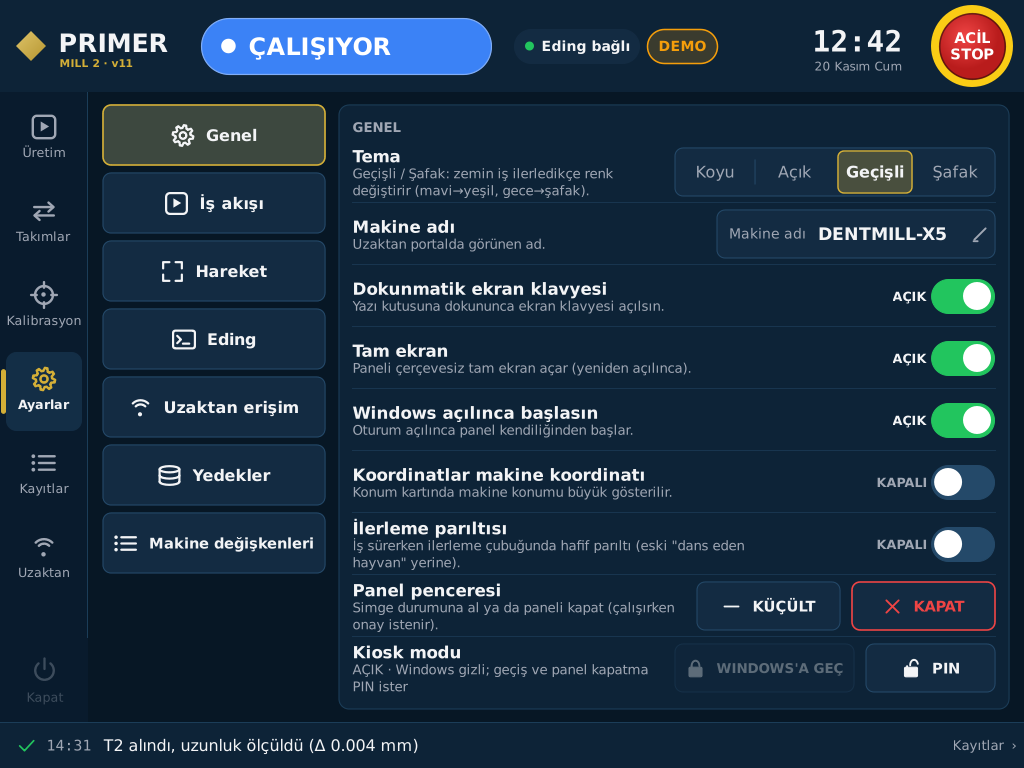
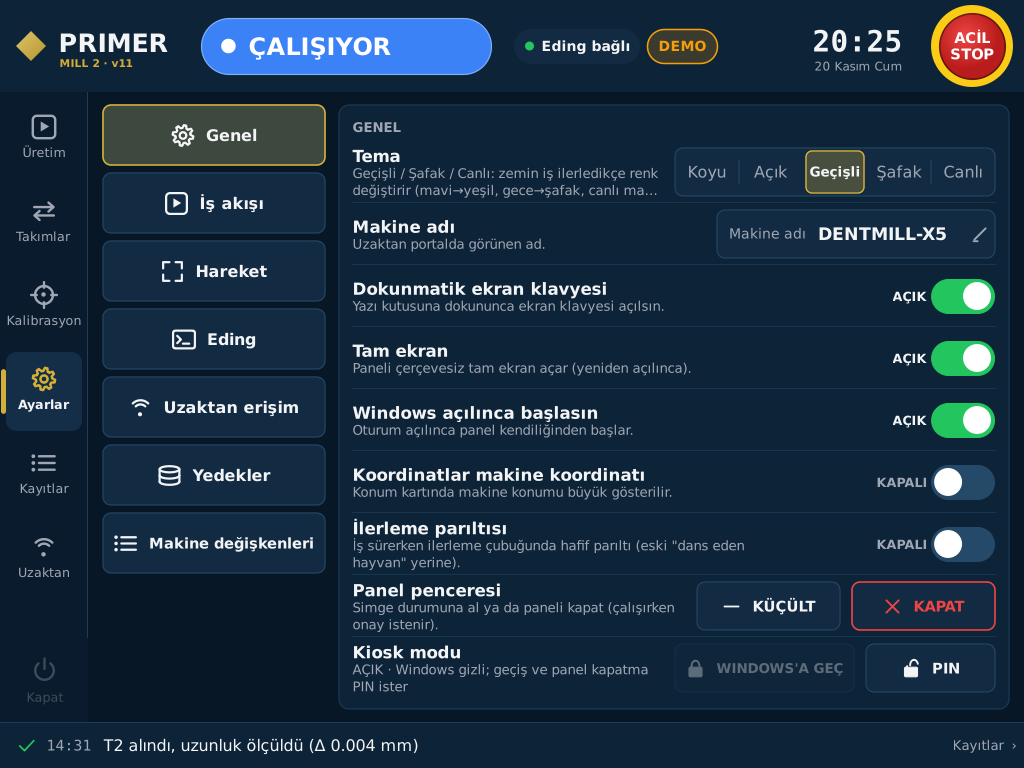
Yeni ilerleme temasi: Canli (belirgin maviden yesile)
Gecisli ile ayni motor; uclar doygun renkler (yazi kontrasti >= 7:1).
Ayarlar > Genel > Tema 5 secenek; Tema=canli. Testler ve ekran goruntuleri
85-89. Paket v14.

Claude-Session: https://claude.ai/code/session_01AzwqC4ZEM5pcPdzvYXdH7g

Changed region(s): [[0.3438, 0.1875, 0.7188, 0.25], [0.75, 0.1875, 0.9688, 0.25], [0.7812, 0.0312, 0.875, 0.0625]]

diff --git a/PrimerMill_Kod_Inceleme/teslim/PrimerMill/ui/PrimerUI.cs b/PrimerMill_Kod_Inceleme/teslim/PrimerMill/ui/PrimerUI.cs
@@ -92,7 +92,7 @@ namespace PrimerUI
 
     /// <summary>Tema modu: Koyu, Açık ve iki ilerleme teması (koyu taban; yüzeyler işin ilerlemesine göre kayar):
     /// Geçişli (maviden yeşile), Şafak (gece çivitinden şafak bakırına).</summary>
-    public enum TemaModu { Koyu, Acik, Gecisli, Safak }
+    public enum TemaModu { Koyu, Acik, Gecisli, Safak, Canli }
 
     /// <summary>İlerleme teması: yüzey belirteçlerinin iki uç paleti (t = 0 ve t = 1) ve ara renk yolu.
     /// Sıra: Zemin, Kart, KartKenar, Dugme, DugmeKenar, Menu, Ayrac, Secili, Golge.</summary>
@@ -113,7 +113,7 @@ namespace PrimerUI
         public static TemaModu Mod = TemaModu.Koyu;
         /// <summary>İlerleme teması mı (Geçişli, Şafak): yüzeyler GecisT'ye göre hesaplanır, Kabuk yumuşak geçiş zamanlayıcısını çalıştırır.</summary>
         public static bool Ilerlemeli { get { return IlerlemeliMi(Mod); } }
-        public static bool IlerlemeliMi(TemaModu m) { return m == TemaModu.Gecisli || m == TemaModu.Safak; }
+        public static bool IlerlemeliMi(TemaModu m) { return m == TemaModu.Gecisli || m == TemaModu.Safak || m == TemaModu.Canli; }
         /// <summary>İlerleme temasında o an çizilen konum (0 = iş yok / başında, 1 = iş bitti).</summary>
         public static float GecisT;
         /// <summary>Yerleşim katsayısı (1024×768 = 1.0, 1920×1080 ≈ 1.4).</summary>
@@ -151,6 +151,7 @@ namespace PrimerUI
             if (v == "acik" || v == "açık") return TemaModu.Acik;
             if (v == "gecisli" || v == "geçişli") return TemaModu.Gecisli;
             if (v == "safak" || v == "şafak") return TemaModu.Safak;
+            if (v == "canli" || v == "canlı") return TemaModu.Canli;
             return TemaModu.Koyu;
         }
         /// <summary>Mod → ayar değeri ("koyu", "acik", "gecisli", "safak").</summary>
@@ -161,6 +162,7 @@ namespace PrimerUI
                 case TemaModu.Acik: return "acik";
                 case TemaModu.Gecisli: return "gecisli";
                 case TemaModu.Safak: return "safak";
+                case TemaModu.Canli: return "canli";
                 default: return "koyu";
             }
         }
@@ -177,8 +179,14 @@ namespace PrimerUI
             new[] { "#0E0B26", "#18133B", "#2C2563", "#211B4A", "#362E72", "#120E2F", "#272056", "#221C4D", "#06041A" },
             new[] { "#1B1007", "#2A1A0D", "#57381C", "#352112", "#64421F", "#22150A", "#4A2F17", "#3A2513", "#0D0703" }, true);
 
+        /// <summary>Canlı: Geçişli gibi maviden yeşile, ama doygun ve belirgin renklerle (kullanıcı isteği: geçiş daha belirgin).
+        /// Yazı/kart kontrastı ≥ 7:1 (Koyu kadar yüksek değil, okunaklı); OKLab'da doğrusal (mavi → camgöbeği → yeşil).</summary>
+        public static readonly IlerlemePaleti CanliPalet = new IlerlemePaleti("Canlı",
+            new[] { "#0A2563", "#12357A", "#2C56B0", "#1A428F", "#3864BE", "#0C2C6E", "#2650A0", "#1F4A96", "#03102C" },
+            new[] { "#08401F", "#0F5A2D", "#2A8F50", "#16693A", "#349E5E", "#0B4A25", "#25834A", "#1D7542", "#02200E" }, false);
+
         /// <summary>Etkin modun ilerleme paleti (ilerleme teması değilse null).</summary>
-        public static IlerlemePaleti EtkinPalet { get { return Mod == TemaModu.Safak ? SafakPalet : Mod == TemaModu.Gecisli ? GecisliPalet : null; } }
+        public static IlerlemePaleti EtkinPalet { get { return Mod == TemaModu.Canli ? CanliPalet : Mod == TemaModu.Safak ? SafakPalet : Mod == TemaModu.Gecisli ? GecisliPalet : null; } }
 
         /// <summary>İlerleme temasında yüzey belirteçlerini t'ye (0..1) göre etkin paletin iki ucu arasından hesaplar (ara renklerin hepsi).
         /// Olay (Degisti) tetiklemez; çağıran yeniden boyar. Dönüş: 8 bitlik renklerden biri değişti mi (değişmediyse boyamaya gerek yok).</summary>
@@ -3834,10 +3842,10 @@ namespace PrimerUI
 
             // Genel
             var g = Sayfa(0);
-            tema = new SecimGrubu(new[] { "Koyu", "Açık", "Geçişli", "Şafak" }, new[] { "koyu", "acik", "gecisli", "safak" }, "ayar.kaydet", "Tema");
+            tema = new SecimGrubu(new[] { "Koyu", "Açık", "Geçişli", "Şafak", "Canlı" }, new[] { "koyu", "acik", "gecisli", "safak", "canli" }, "ayar.kaydet", "Tema");
             tema.Secili = 0;
             tema.SecimDegisti += delegate { var h = TemaIstendi; if (h != null) h(tema.SeciliDeger); };
-            g.Ekle(new AyarSatiri("Tema", "Geçişli / Şafak: zemin iş ilerledikçe renk değiştirir (mavi→yeşil, gece→şafak).", tema, 420), 62);
+            g.Ekle(new AyarSatiri("Tema", "Geçişli / Şafak / Canlı: zemin iş ilerledikçe renk değiştirir (mavi→yeşil, gece→şafak, canlı mavi→yeşil).", tema, 420), 62);
             var ad = new DegerKutusu { Metinsel = true, AyarAdi = "MakineAdi", EnCokKarakter = 30, Pt = 13f, Etiket = "Makine adı" };
             degerler["MakineAdi"] = ad;
             g.Ekle(new AyarSatiri("Makine adı", "Uzaktan portalda görünen ad.", ad, 280), 62);

diff --git a/PrimerMill_Kod_Inceleme/ui/PrimerUI.cs b/PrimerMill_Kod_Inceleme/ui/PrimerUI.cs
@@ -92,7 +92,7 @@ namespace PrimerUI
 
     /// <summary>Tema modu: Koyu, Açık ve iki ilerleme teması (koyu taban; yüzeyler işin ilerlemesine göre kayar):
     /// Geçişli (maviden yeşile), Şafak (gece çivitinden şafak bakırına).</summary>
-    public enum TemaModu { Koyu, Acik, Gecisli, Safak }
+    public enum TemaModu { Koyu, Acik, Gecisli, Safak, Canli }
 
     /// <summary>İlerleme teması: yüzey belirteçlerinin iki uç paleti (t = 0 ve t = 1) ve ara renk yolu.
     /// Sıra: Zemin, Kart, KartKenar, Dugme, DugmeKenar, Menu, Ayrac, Secili, Golge.</summary>
@@ -113,7 +113,7 @@ namespace PrimerUI
         public static TemaModu Mod = TemaModu.Koyu;
         /// <summary>İlerleme teması mı (Geçişli, Şafak): yüzeyler GecisT'ye göre hesaplanır, Kabuk yumuşak geçiş zamanlayıcısını çalıştırır.</summary>
         public static bool Ilerlemeli { get { return IlerlemeliMi(Mod); } }
-        public static bool IlerlemeliMi(TemaModu m) { return m == TemaModu.Gecisli || m == TemaModu.Safak; }
+        public static bool IlerlemeliMi(TemaModu m) { return m == TemaModu.Gecisli || m == TemaModu.Safak || m == TemaModu.Canli; }
         /// <summary>İlerleme temasında o an çizilen konum (0 = iş yok / başında, 1 = iş bitti).</summary>
         public static float GecisT;
         /// <summary>Yerleşim katsayısı (1024×768 = 1.0, 1920×1080 ≈ 1.4).</summary>
@@ -151,6 +151,7 @@ namespace PrimerUI
             if (v == "acik" || v == "açık") return TemaModu.Acik;
             if (v == "gecisli" || v == "geçişli") return TemaModu.Gecisli;
             if (v == "safak" || v == "şafak") return TemaModu.Safak;
+            if (v == "canli" || v == "canlı") return TemaModu.Canli;
             return TemaModu.Koyu;
         }
         /// <summary>Mod → ayar değeri ("koyu", "acik", "gecisli", "safak").</summary>
@@ -161,6 +162,7 @@ namespace PrimerUI
                 case TemaModu.Acik: return "acik";
                 case TemaModu.Gecisli: return "gecisli";
                 case TemaModu.Safak: return "safak";
+                case TemaModu.Canli: return "canli";
                 default: return "koyu";
             }
         }
@@ -177,8 +179,14 @@ namespace PrimerUI
             new[] { "#0E0B26", "#18133B", "#2C2563", "#211B4A", "#362E72", "#120E2F", "#272056", "#221C4D", "#06041A" },
             new[] { "#1B1007", "#2A1A0D", "#57381C", "#352112", "#64421F", "#22150A", "#4A2F17", "#3A2513", "#0D0703" }, true);
 
+        /// <summary>Canlı: Geçişli gibi maviden yeşile, ama doygun ve belirgin renklerle (kullanıcı isteği: geçiş daha belirgin).
+        /// Yazı/kart kontrastı ≥ 7:1 (Koyu kadar yüksek değil, okunaklı); OKLab'da doğrusal (mavi → camgöbeği → yeşil).</summary>
+        public static readonly IlerlemePaleti CanliPalet = new IlerlemePaleti("Canlı",
+            new[] { "#0A2563", "#12357A", "#2C56B0", "#1A428F", "#3864BE", "#0C2C6E", "#2650A0", "#1F4A96", "#03102C" },
+            new[] { "#08401F", "#0F5A2D", "#2A8F50", "#16693A", "#349E5E", "#0B4A25", "#25834A", "#1D7542", "#02200E" }, false);
+
         /// <summary>Etkin modun ilerleme paleti (ilerleme teması değilse null).</summary>
-        public static IlerlemePaleti EtkinPalet { get { return Mod == TemaModu.Safak ? SafakPalet : Mod == TemaModu.Gecisli ? GecisliPalet : null; } }
+        public static IlerlemePaleti EtkinPalet { get { return Mod == TemaModu.Canli ? CanliPalet : Mod == TemaModu.Safak ? SafakPalet : Mod == TemaModu.Gecisli ? GecisliPalet : null; } }
 
         /// <summary>İlerleme temasında yüzey belirteçlerini t'ye (0..1) göre etkin paletin iki ucu arasından hesaplar (ara renklerin hepsi).
         /// Olay (Degisti) tetiklemez; çağıran yeniden boyar. Dönüş: 8 bitlik renklerden biri değişti mi (değişmediyse boyamaya gerek yok).</summary>
@@ -3834,10 +3842,10 @@ namespace PrimerUI
 
             // Genel
             var g = Sayfa(0);
-            tema = new SecimGrubu(new[] { "Koyu", "Açık", "Geçişli", "Şafak" }, new[] { "koyu", "acik", "gecisli", "safak" }, "ayar.kaydet", "Tema");
+            tema = new SecimGrubu(new[] { "Koyu", "Açık", "Geçişli", "Şafak", "Canlı" }, new[] { "koyu", "acik", "gecisli", "safak", "canli" }, "ayar.kaydet", "Tema");
             tema.Secili = 0;
             tema.SecimDegisti += delegate { var h = TemaIstendi; if (h != null) h(tema.SeciliDeger); };
-            g.Ekle(new AyarSatiri("Tema", "Geçişli / Şafak: zemin iş ilerledikçe renk değiştirir (mavi→yeşil, gece→şafak).", tema, 420), 62);
+            g.Ekle(new AyarSatiri("Tema", "Geçişli / Şafak / Canlı: zemin iş ilerledikçe renk değiştirir (mavi→yeşil, gece→şafak, canlı mavi→yeşil).", tema, 420), 62);
             var ad = new DegerKutusu { Metinsel = true, AyarAdi = "MakineAdi", EnCokKarakter = 30, Pt = 13f, Etiket = "Makine adı" };
             degerler["MakineAdi"] = ad;
             g.Ekle(new AyarSatiri("Makine adı", "Uzaktan portalda görünen ad.", ad, 280), 62);

diff --git a/PrimerMill_Kod_Inceleme/tests/ui/EkranGoruntusu.cs b/PrimerMill_Kod_Inceleme/tests/ui/EkranGoruntusu.cs
@@ -185,6 +185,13 @@ static class EkranGoruntusu
         Ekle(no() + "_diyalog_devam_kirik_frez_koyu_1024.png", 1024, 768, true, () => { var d = Hazir(); d.Takim = 2; Uygula(d, IzinHazir()); Git("uretim"); Diyalog.Devam("ZY2_45", "T2 frezi KIRIK (boy 1.84 mm değişti, sınır 0.2 mm)\n2026-11-20 14:31:07  ·  iş satır 61 240'da durdu  ·  %88\nNerede kırıldığı bilinemediği için T2'nin bu işteki işi baştan kesilir: satır 34 702 (T2 takım değişimi).", 0, 2); });
         Ekle(no() + "_diyalog_freze_hatasi_koyu_1024.png", 1024, 768, true, () => { var d = Hazir(); d.Takim = 2; d.Durum = Durum.Alarm; d.DurumMetni = "Eding hatası"; Uygula(d, IzinHazir()); Git("uretim"); Diyalog.Hata("FREZE HATASI", "T2 frezesinin boyu iş sonrası ölçümde 1.84 mm değişmiş (izin verilen: 0.2 mm).\nFreze kırılmış, aşınmış ya da pensin içinde kaymış olabilir. Kazıma bir sonraki frezeye geçmeden durduruldu.\n\n1. ALARMI TEMİZLE'ye bas.\n2. Frezi tut, PENS AÇ ile kırık frezi çıkar (dikkat: iş milinde kırık T2).\n3. Yeni T2 frezini T2 yuvasına tak (otomatik mod).\n4. BAŞLAT → T2'NİN İŞİNİ BAŞTAN: nerede kırıldığı bilinemediği için T2'nin bu işteki işi, T2'nin takım değişiminden itibaren yeniden kesilir."); });
         Ekle(no() + "_uretim_devam_kaydi_koyu_1024.png", 1024, 768, true, () => { var d = Ornek(); d.DevamKaydi = "Son kayıt: satır 44 812 (14:31:07)"; Uygula(d, IzinCalisiyor()); Git("uretim"); });
+        // Canlı: Geçişli gibi maviden yeşile, doygun renklerle (sona eklendi, eski numaralar değişmesin)
+        var C2 = TemaModu.Canli;
+        Ekle(no() + "_uretim_canli_0_1024.png", 1024, 768, C2, () => { var d = Hazir(); Uygula(d, IzinHazir()); Git("uretim"); });
+        Ekle(no() + "_uretim_canli_50_1024.png", 1024, 768, C2, () => { var d = Ornek(); d.Yuzde = 50; d.Satir = 34876; d.GecenSn = 33 * 60; d.KalanSn = 33 * 60; Uygula(d, IzinCalisiyor()); Git("uretim"); });
+        Ekle(no() + "_uretim_canli_100_1024.png", 1024, 768, C2, () => { var d = Bitti(); Uygula(d, IzinHazir()); Git("uretim"); });
+        Ekle(no() + "_uretim_canli_duraklatildi_92_1024.png", 1024, 768, C2, () => { var d = Ornek(); d.Yuzde = 92; d.Durum = Durum.Duraklatildi; d.DurumMetni = "Duraklatıldı"; d.Satir = 64170; d.KalanSn = 5 * 60 + 17; Uygula(d, IzinDuraklatildi()); Git("uretim"); });
+        Ekle(no() + "_ayarlar_genel_canli_1024.png", 1024, 768, C2, () => { var d = Ornek(); d.Yuzde = 40; d.Ayarlar["Tema"] = "canli"; Uygula(d, IzinCalisiyor()); Git("ayarlar.0"); });
     }
 
     static IEnumerable<Control> Tum(Control k)

diff --git a/PrimerMill_Kod_Inceleme/TASARIM.md b/PrimerMill_Kod_Inceleme/TASARIM.md
@@ -218,3 +218,8 @@ Geçişler 150 ms (ekran değişiminde içerik solarak gelir, ilerleme çubuğu 
 - **Donmama:** cncapi çağrıları kısa ve iş parçacığı güvenliği bilinmediği için UI iş parçacığında kalır (eski davranış). Uzun bekleyişler (home, takım değişimi, kalibrasyon) yeniden girişe karşı korunmuş bekleme döngüsüyle yapılır; bu sırada arayüz "meşgul" katmanı gösterir, ama **ACİL STOP her zaman çalışır** (yeniden giriş korumasının dışında). Zamanlayıcılar tek bir ana zamanlayıcıda birleştirilir ve yeniden girişe karşı korunur.
 - **Demo modu:** `KazimaBaslat.bat /demo` ya da `cncapi.dll` bulunamazsa (sorularak) `EdingSim.cs` yüklenir. Bu, gerçek `[Eding]` sınıfıyla **aynı adlı ve aynı üyeli** sahte bir sınıftır: eksenler, durum makinesi (READY/RUNNING/PAUSE…), iş ilerlemesi, takım numarası, değişkenler (#4000–#4199, #5221–#5225) bellekte simüle edilir. Ekranda sürekli "DEMO" etiketi görünür. Gerçek makinede demo modu kendiliğinden açılmaz.
 - **Geri dönüş:** Düzeltilmiş eski panel `KazimaBaslat_Klasik.ps1` / `KazimaBaslat_Klasik.bat` olarak teslimde kalır.
+
+
+### Canlı tema (ilerleme teması, belirgin)
+
+Geçişli ile aynı eşleme ve yumuşak geçiş; uçlar daha doygun: mavi zemin `#0A2563` / kart `#12357A` → yeşil zemin `#08401F` / kart `#0F5A2D` (OKLab'da doğrusal, mavi → camgöbeği → yeşil). Yazı/kart kontrastı ≥ 7:1 (Koyu kadar yüksek değil, okunaklı). Ayarlar › Genel › Tema: Koyu / Açık / Geçişli / Şafak / Canlı (`Tema=canli`).
